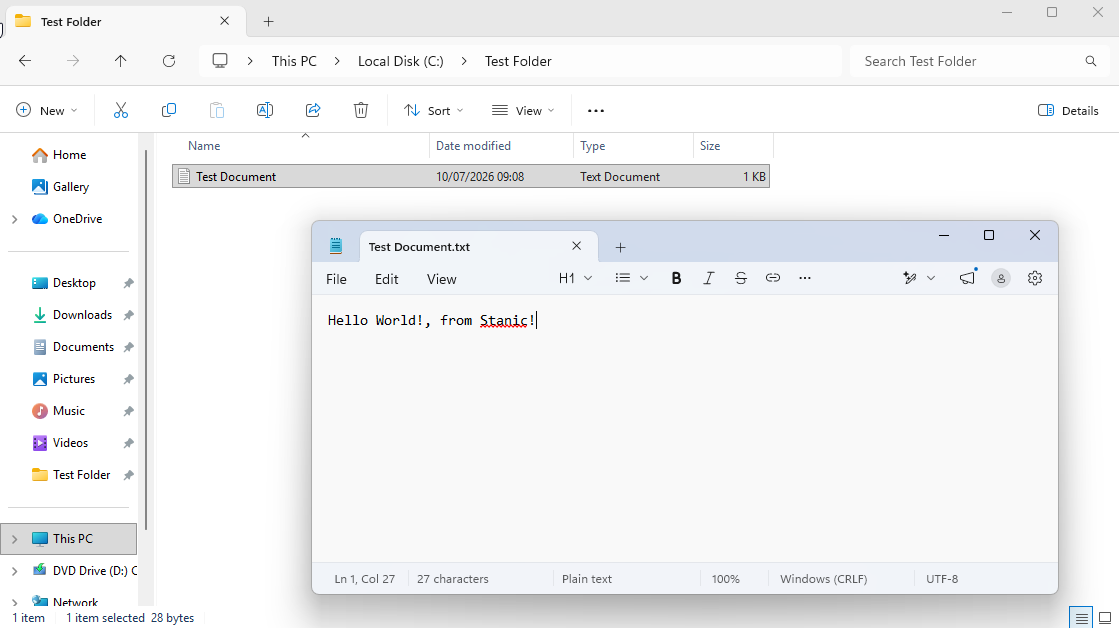
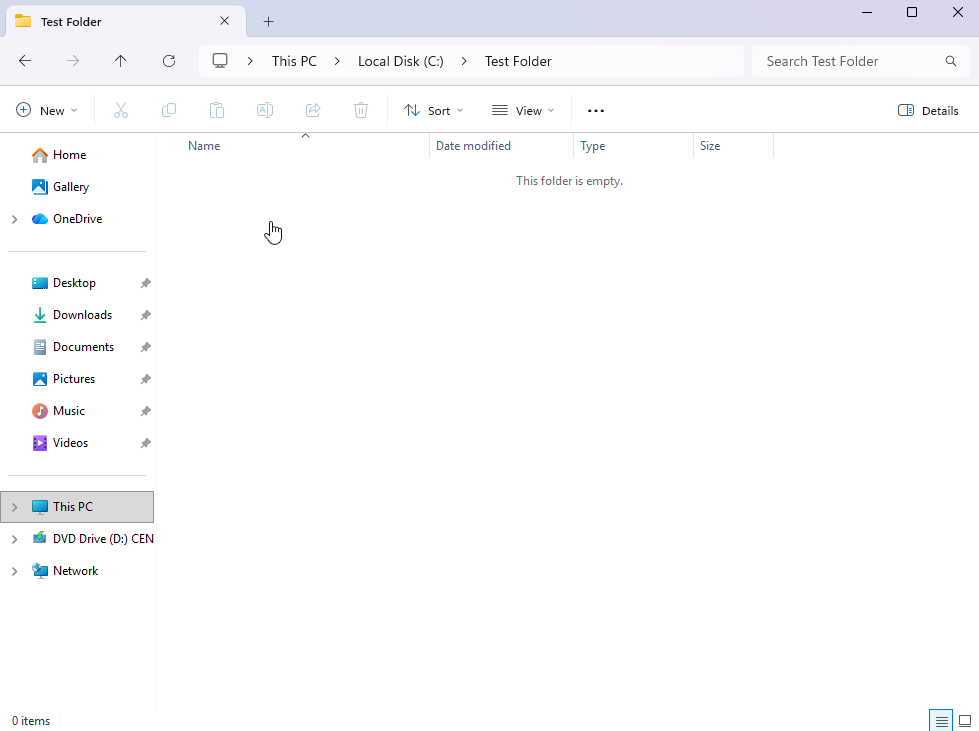
Refine Local User Accounts & File Permissions lab documentation

diff --git a/Windows/02-accounts-and-permissions/README.md b/Windows/02-accounts-and-permissions/README.md
@@ -2,7 +2,7 @@
 
 ## Scenario
 
-A temporary local user account and a test folder were required to practice user administration and NTFS permission management in Windows 11. The goal was to create a temporary user, modify group membership, perform a password reset, configure NTFS permissions, verify folder access, and remove the temporary resources after testing.
+A temporary local user account and a test folder were required to practice user administration and NTFS permission management. The goal was to create a temporary user, modify group membership, perform a password reset, configure NTFS permissions, verify folder access, and remove the temporary resources after testing.
 
 Local user accounts can be administered through several Windows tools, including **Settings**, **Control Panel**, and **Local Users and Groups**. For this lab, `lusrmgr.msc` was used because it provides a more efficient interface for managing local users and group memberships.
 
@@ -35,19 +35,19 @@ A temporary local user account named `Marc` was created. The account was configu
 
 ### 3. Verified the new user account
 
-The new account appeared in the local users list, verifying that it had been created.
+The `Marc` account appeared in the local users list, verifying that it had been created.
 
 ![Verified new local user properties](screenshots/03-new-local-user-properties.png)
 
 ### 4. Added the user to the Administrators group
 
-The test account was added to the local `Administrators` group while retaining its default `Users` group membership. This granted the account local administrator privileges.
+The `Marc` account was added to the local `Administrators` group while retaining its default `Users` group membership, granting the local user elevated privileges. The account was then removed from `Administrators` group to prevent conflict with the upcoming NTFS permission part of the lab.
 
 ![Added local user to Administrators group](screenshots/04-local-user-to-administrator.png)
 
 ### 5. Reset the local user password
 
-The password for the test account was reset to simulate a forgotten-password request, a common IT support scenario.
+The password for the `Marc` account was reset to simulate a forgotten-password request, a common IT support scenario.
 
 ![Reset local user password](screenshots/05-local-user-password-reset.png)
 
@@ -71,29 +71,29 @@ Inherited permission entries were removed, leaving only the intended local accou
 
 ### 9. Verified allowed access
 
-The allowed account was able to open and edit the test document.
+The `Stanic` account was able to access the `Test Folder`.
 
 ![Verified allowed access](screenshots/09-stanic-access-allowed.png)
 
 ### 10. Verified denied access
 
-The restricted test account was unable to access the folder, confirming that the NTFS permissions were applied correctly.
+The `Marc` account was unable to access `Test Folder`, confirming that the configured NTFS permissions worked as intended.
 
 ![Verified denied access](screenshots/10-marc-access-denied.png)
 
 ### 11. Removed temporary user account and test folder
 
-After the local account administration and NTFS permission testing was completed, the temporary user account `Marc` and the `Test Folder` directory were deleted.
+After the administration and permission tests were completed, the temporary `Marc` account and `Test Folder` were deleted.
 
 ![Removed temporary user account and test folder](screenshots/11-removed-temporary-account-and-folder.png)
 
 ## Result
 
-The local user account `Marc` was created, assigned local administrator privileges, and used to simulate a password reset scenario. NTFS permissions were then configured on a test folder to control user access. Testing confirmed that `Stanic` could access the folder, including the document inside it, while `Marc` was denied access.
+A local user account `Marc` was created, temporarily granted local administrator privileges, and used to simulate a password reset scenario. NTFS permissions were then configured on a test folder to control user access. Testing confirmed that `Stanic` could access the folder, while `Marc` was denied access.
 
-After the workflow was completed, the temporary user account and test folder were deleted.
+After the account and permission configuration, the temporary user account and test folder were deleted.
 
-## Note
+## Security Note
 
 Adding a user to the local `Administrators` group grants elevated privileges on the machine. In a real environment, this should be approached with caution, as unnecessary privileges can create security risks.
 

diff --git a/Windows/01-win11-vm-setup-snapshots/README.md b/Windows/01-win11-vm-setup-snapshots/README.md
@@ -2,7 +2,7 @@
 
 ## Scenario
 
-A Windows 11 virtual machine (VM) was required as a controlled environment for future IT labs. The goal was to install a functional system in VMware Workstation Pro, manually configure the virtual hardware, set up a local account, create a baseline snapshot, and verify that the system could be restored after unwanted configuration changes.
+A Windows 11 virtual machine (VM) was required as a controlled environment for future IT labs. The goal was to install a functional system in VMware Workstation Pro, manually configure the virtual hardware, set up a local account, create a baseline snapshot, and verify that the system could be restored after unwanted changes.
 
 ## Environment
 
@@ -25,7 +25,7 @@ A Windows 11 virtual machine (VM) was required as a controlled environment for f
 
 - Windows 11 VM setup
 - VM hardware configuration
-- Local Windows account setup
+- Local Windows user account setup
 - VMware Tools installation
 - Snapshot management
 